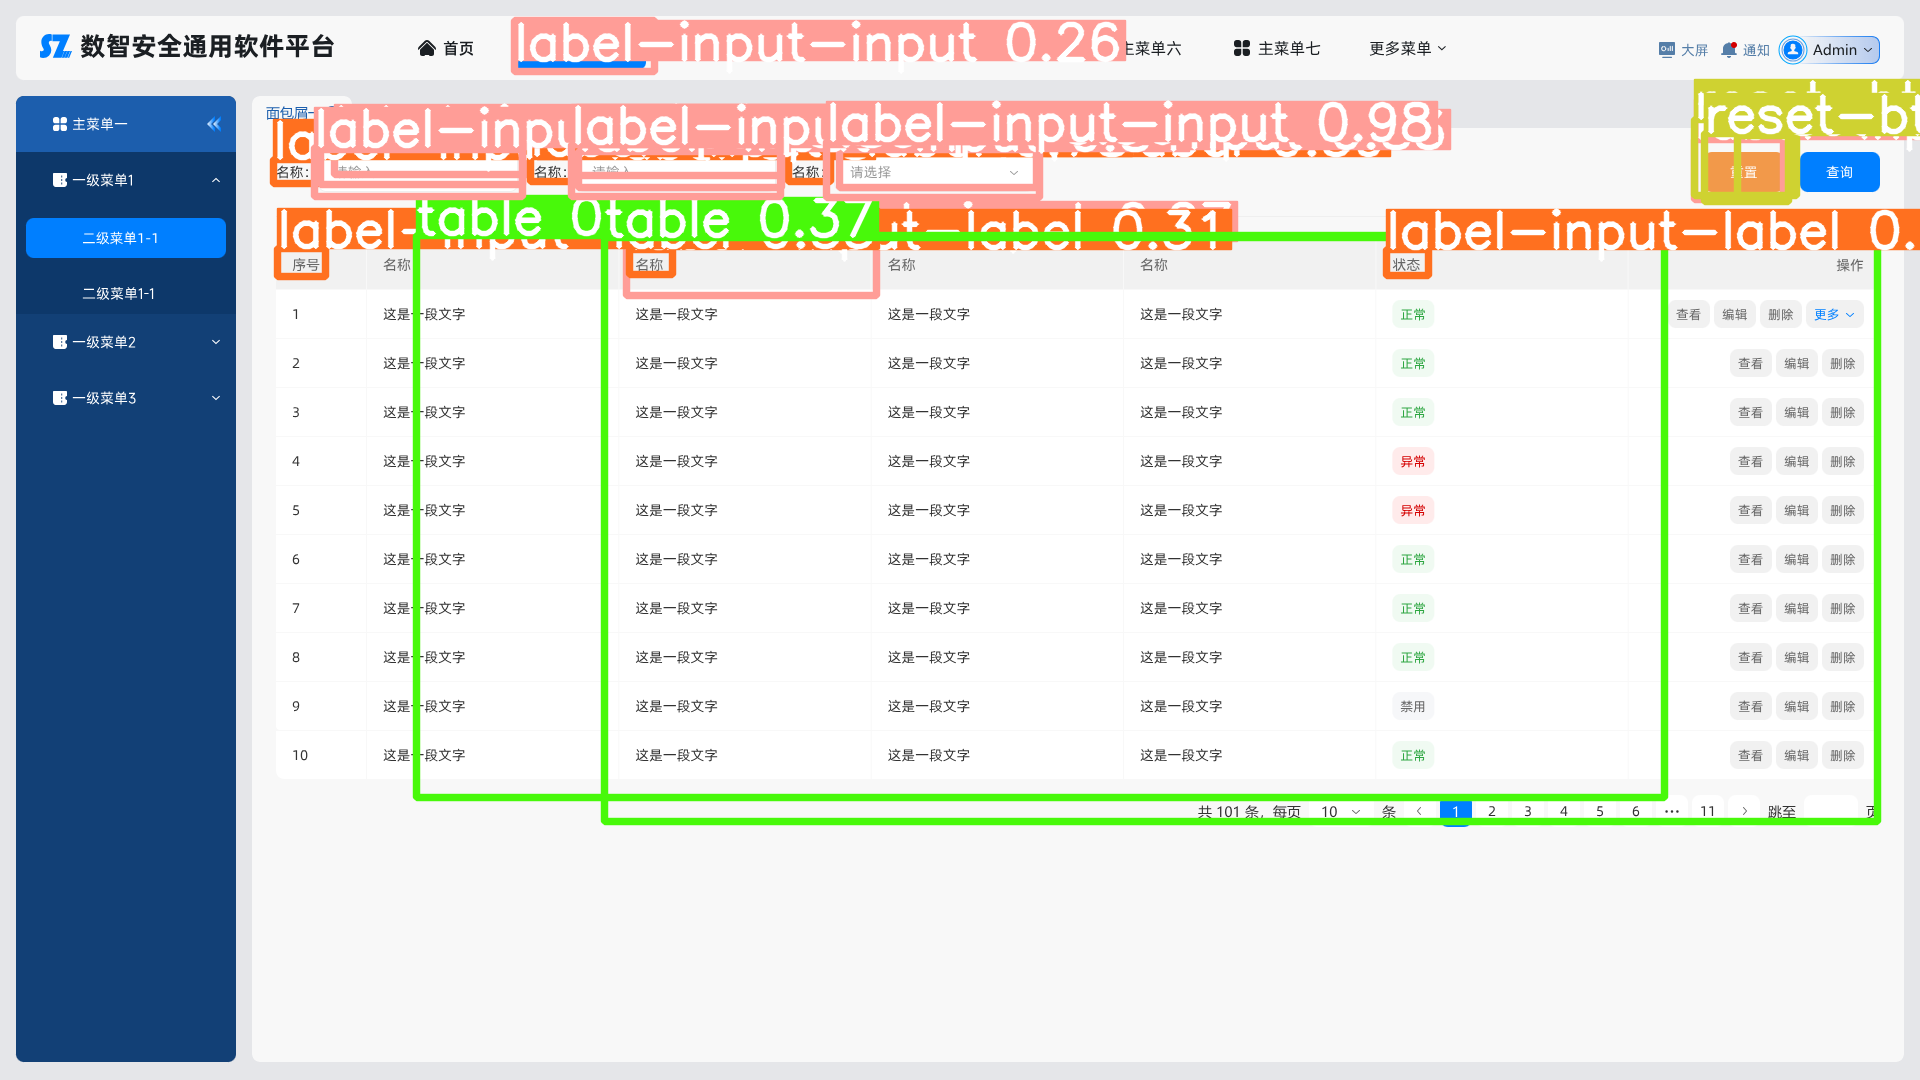
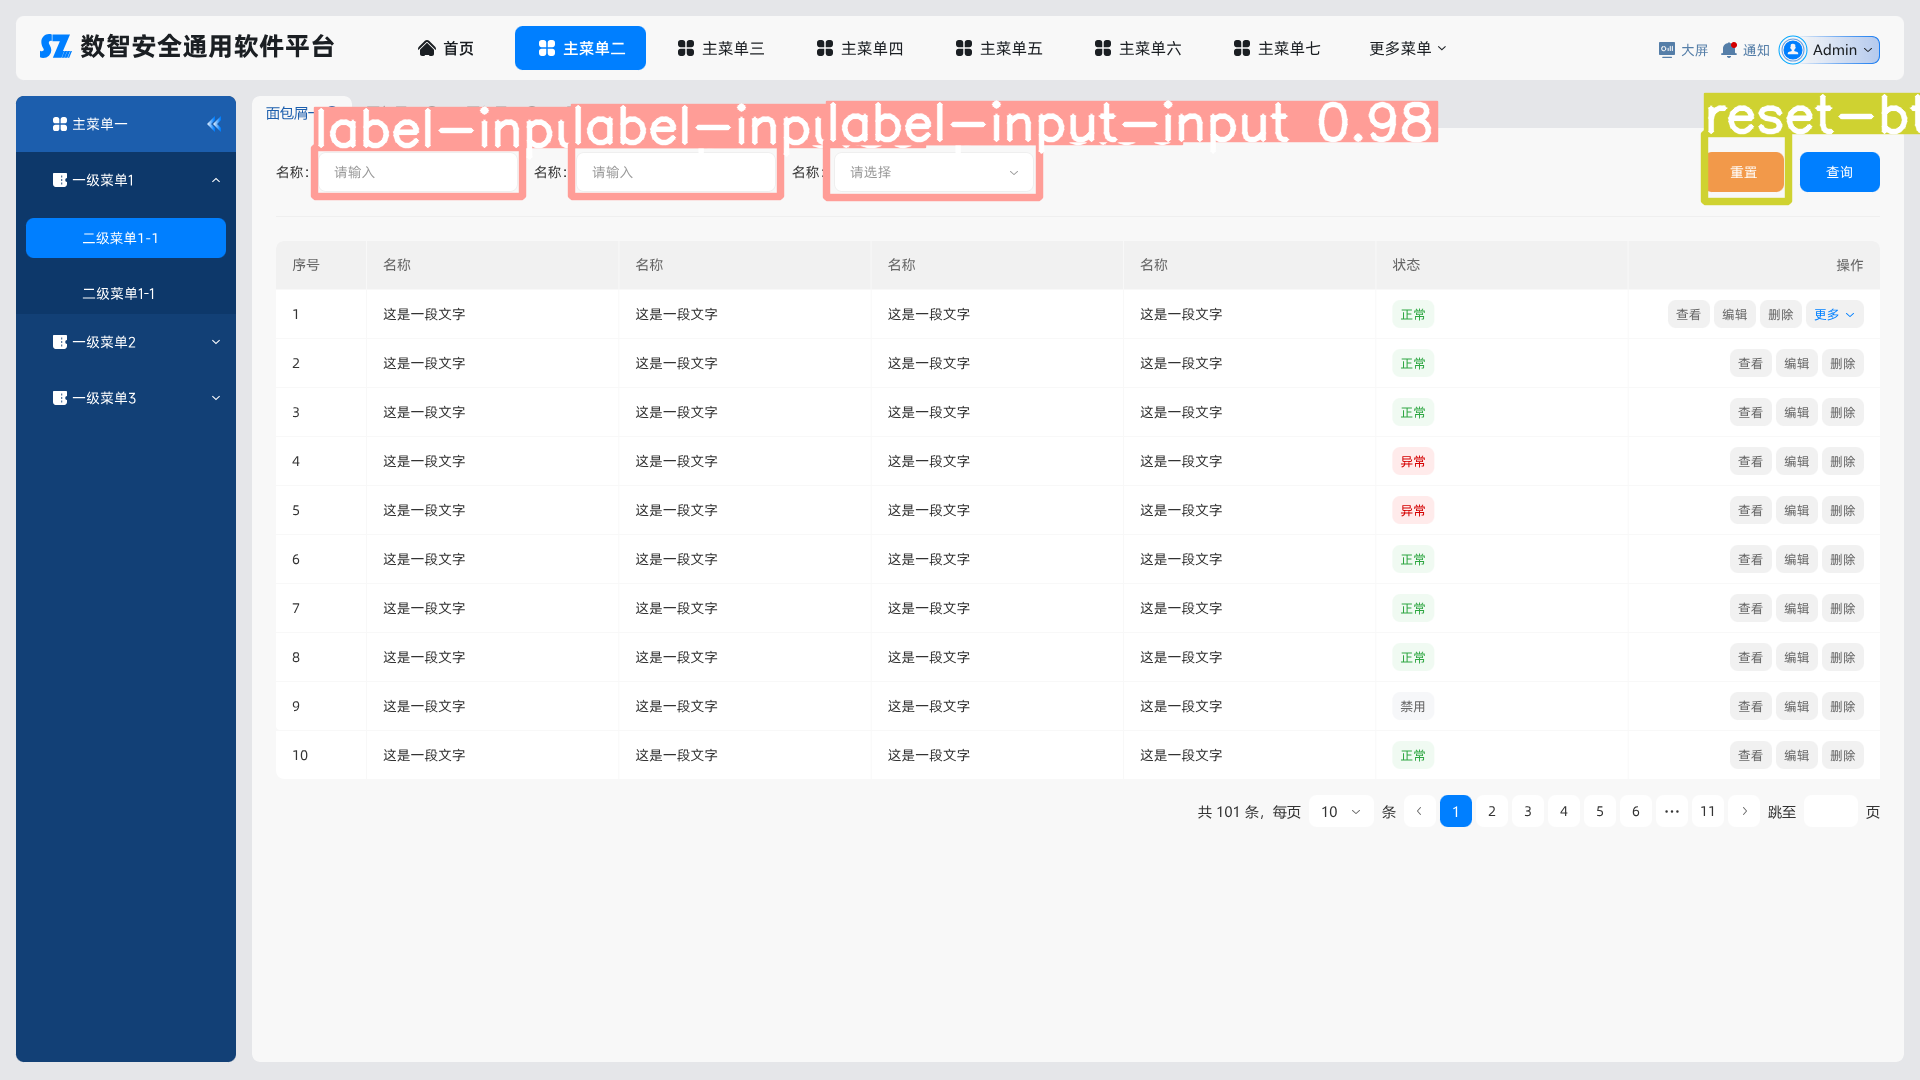
过滤置信度>=0.85的检测框

Changed region(s): [[0.125, 0.0611, 1.0, 0.7639], [0.25, 0.0, 0.5938, 0.0917], [0.75, 0.0917, 0.7812, 0.1222]]

diff --git a/use_extreme.py b/use_extreme.py
@@ -9,6 +9,10 @@ model = YOLO('runs/detect/new_model6/weights/best.pt')
 results = model('1.png')
 result = results[0]
 
+# 过滤置信度>=0.85的检测框
+mask = result.boxes.conf >= 0.85
+result.boxes = result.boxes[mask]
+
 # 生成并保存标注图片
 annotated_img = result.plot()
 cv2.imwrite('extreme_test_result6.png', annotated_img)
@@ -25,7 +29,8 @@ if len(result.boxes) > 0:
         cls_name = model.names[cls_id]
         confidence = float(box.conf[0])
         xyxy = box.xyxy[0].cpu().numpy()  # 像素坐标：x1,y1,x2,y2
-        print(f"✅ 检测到：{cls_name}（置信度：{confidence:.2f}），坐标：{xyxy}")
+        if confidence >= 0.85:
+            print(f"✅ 检测到：{cls_name}（置信度：{confidence:.2f}），坐标：{xyxy}")
     print("\n🎉 测试成功！模型已识别到目标，说明标注/配置无问题！")
 else:
     print("\n❌ 仍未检测到目标，大概率是标注/配置错误：")
